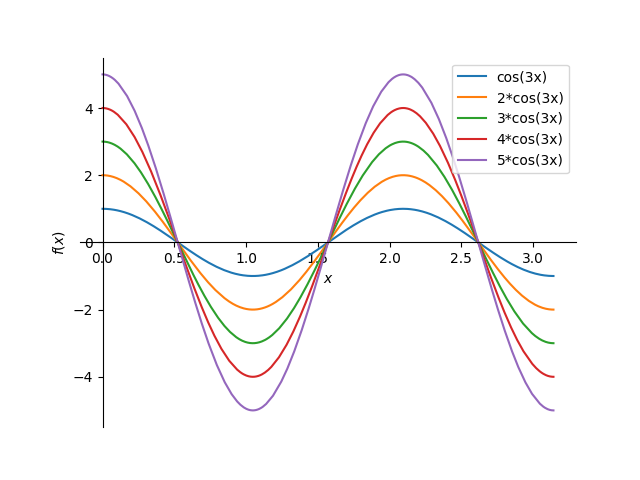
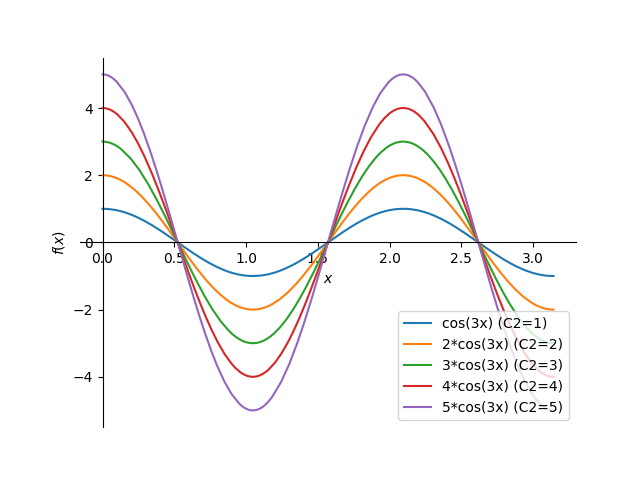
Update: a bit change for labels of graph

diff --git a/08/02-01.py b/08/02-01.py
@@ -16,16 +16,17 @@ print(f"一般解: {ans_gen.lhs} = {ans_gen.rhs}")
 ans_sp = sp.dsolve(eq, ics={y(0): 0, y(sp.pi): 0})
 print(f"特殊解: {ans_sp.lhs} = {ans_sp.rhs}")
 # 任意定数を指定して、特殊解のグラフを描画する
-plotted = plot(sp.sin(3 * x), (x, 0, sp.pi), show=False, label="sin(3x)", legend=True)
+plotted = plot(
+    sp.sin(3 * x), (x, 0, sp.pi), show=False, label="sin(3x) (C1=1)", legend=True
+)
 for c in range(2, 6):
     plotted.append(
         plot(
             c * sp.sin(3 * x),
             (x, 0, sp.pi),
             show=False,
-            label=f"{c}*sin(3x)",
+            label=f"{c}*sin(3x) (C1={c})",
             legend=True,
         )[0]
     )
 plotted.save("./08/img/02-01.png")
-plotted.show()

diff --git a/08/02-02.py b/08/02-02.py
@@ -18,16 +18,17 @@ ans_sp = sp.dsolve(
 )
 print(f"特殊解: {ans_sp.lhs} = {ans_sp.rhs}")
 # 任意定数を指定して、特殊解のグラフを描画する
-plotted = plot(sp.cos(3 * x), (x, 0, sp.pi), show=False, label="cos(3x)", legend=True)
+plotted = plot(
+    sp.cos(3 * x), (x, 0, sp.pi), show=False, label="cos(3x) (C2=1)", legend=True
+)
 for c in range(2, 6):
     plotted.append(
         plot(
             c * sp.cos(3 * x),
             (x, 0, sp.pi),
             show=False,
-            label=f"{c}*cos(3x)",
+            label=f"{c}*cos(3x) (C2={c})",
             legend=True,
         )[0]
     )
 plotted.save("./08/img/02-02.png")
-plotted.show()
